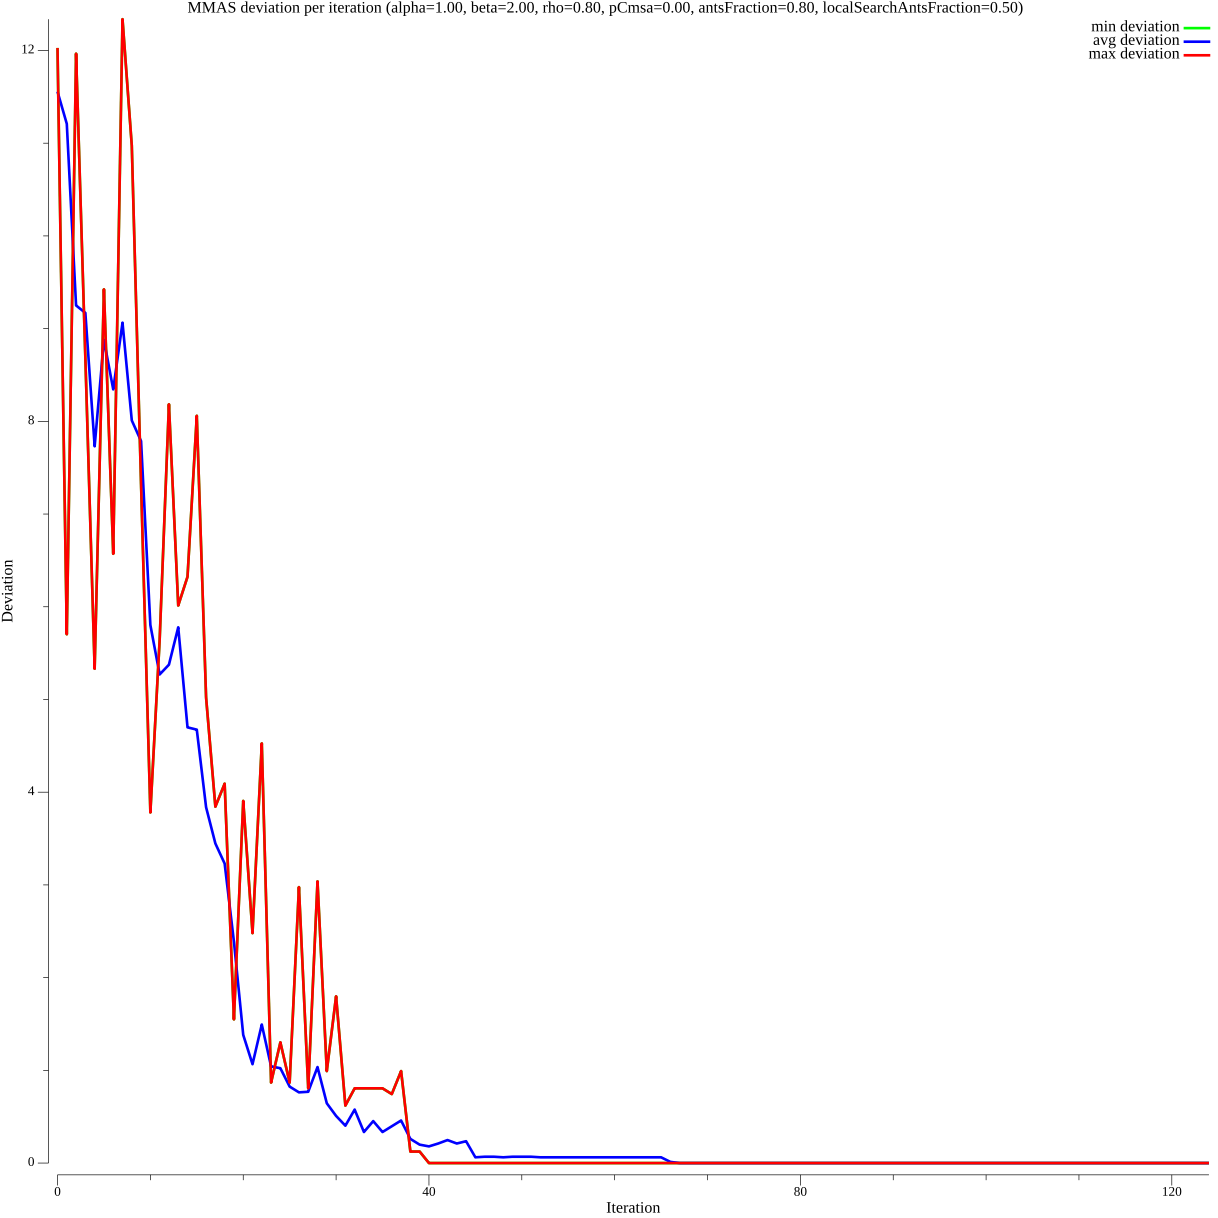
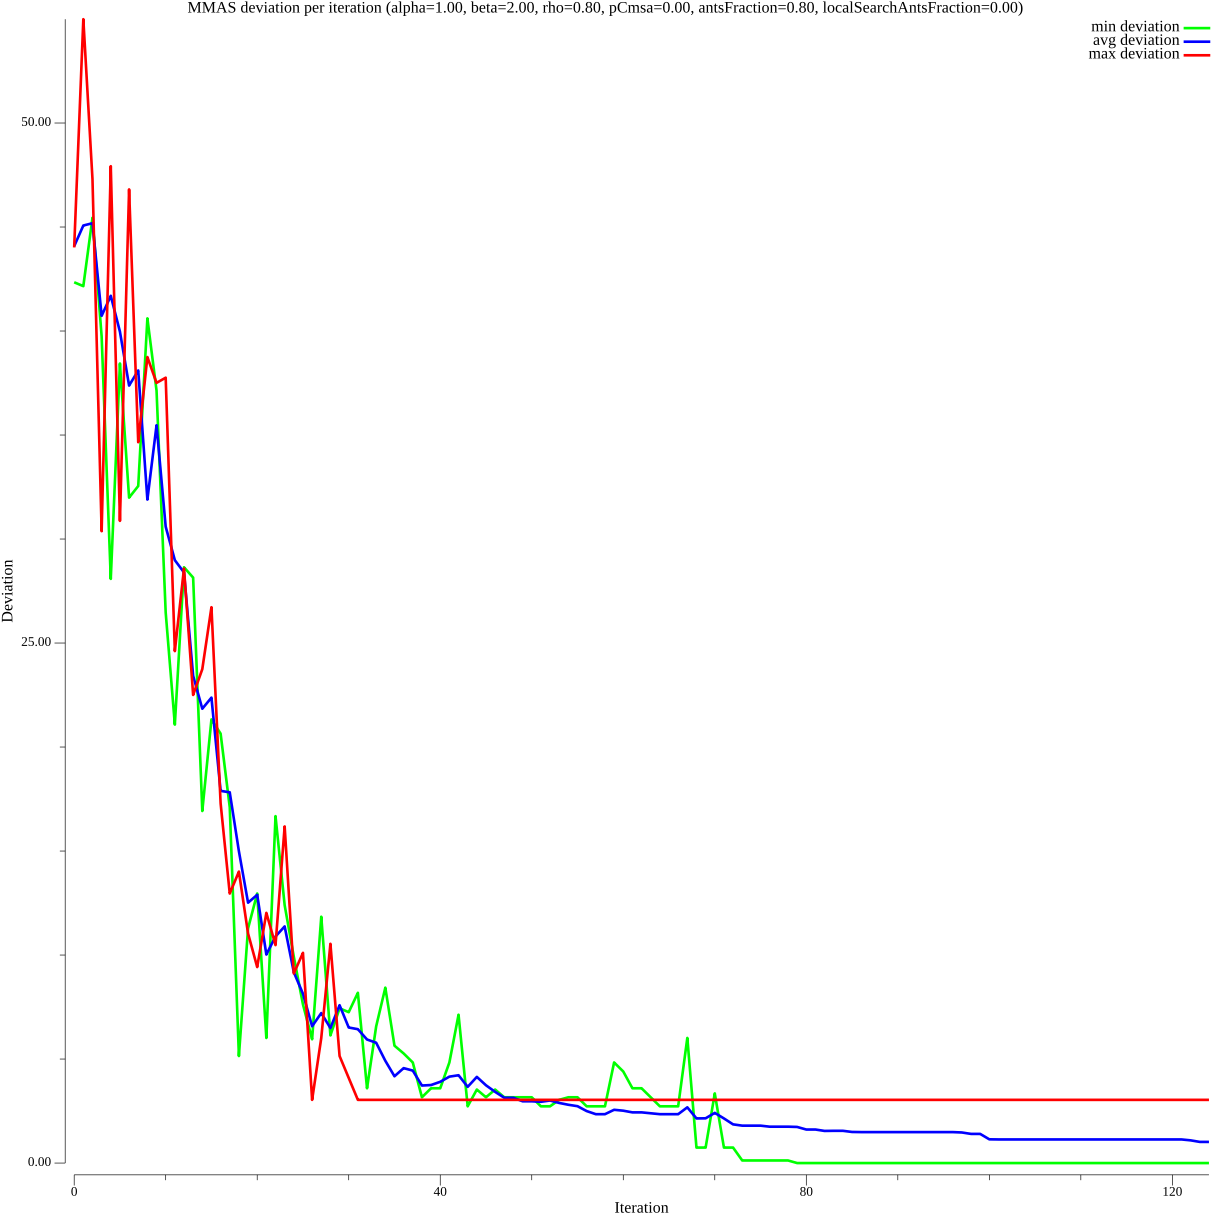
isolated tests

Changed region(s): [[0.0312, 0.0312, 0.9984, 0.9984], [0.0936, 0.624, 0.1248, 0.6552], [0.0312, 0.936, 0.0624, 0.9672]]

diff --git a/main.go b/main.go
@@ -658,9 +658,9 @@ func generateParameters() []ExperimentParameters {
 	for _, alpha := range utilities.GenerateRange(1.0, 1.0, 0.25) {
 		for _, beta := range utilities.GenerateRange(2.0, 2.0, 1.0) {
 			for _, rho := range utilities.GenerateRange(0.8, 0.8, 0.1) {
-				for _, pCmsa := range utilities.GenerateRange(0.0, 1.0, 0.25) {
+				for _, pCmsa := range utilities.GenerateRange(0.0, 0.0, 0.25) {
 					for _, antsPercentage := range utilities.GenerateRange(0.8, 0.8, 0.1) {
-						for _, localSearchAntsPercentage := range utilities.GenerateRange(0.5, 0.5, 0.5) {
+						for _, localSearchAntsPercentage := range utilities.GenerateRange(0.0, 0.0, 0.5) {
 							parameters = append(parameters,
 								ExperimentParameters{
 									alpha, beta, rho, pCmsa, antsPercentage, localSearchAntsPercentage, 0, 0, 0,

diff --git a/results/best_parameters_report.md b/results/best_parameters_report.md
@@ -1,31 +1,28 @@
 # Best Parameters Report
 
-Found **20** best unique parameter combinations.
+Found **17** best unique parameter combinations.
 
 ## Best Parameters
 
 | Alpha | Beta | Rho | pCmsa | AntsPercentage | LocalSearchAntsPercentage |
 |-------|------|-----|-------|----------------|---------------------------|
 | 1.00 | 5.00 | 0.80 | 0.05 | 0.25 | 97.00 |
-| 1.00 | 5.00 | 0.80 | 0.05 | 0.50 | 113.00 |
-| 1.00 | 2.00 | 0.80 | 0.50 | 0.80 | 0.50 |
-| 1.00 | 5.00 | 0.80 | 0.05 | 0.50 | 101.00 |
-| 1.00 | 2.00 | 0.80 | 0.75 | 0.80 | 0.50 |
-| 1.00 | 5.00 | 0.80 | 0.05 | 0.25 | 108.00 |
-| 1.00 | 2.00 | 0.80 | 0.00 | 0.80 | 0.50 |
+| 1.00 | 5.00 | 0.80 | 0.05 | 0.25 | 81.00 |
 | 1.00 | 5.00 | 0.80 | 0.05 | 0.00 | 81.00 |
-| 1.00 | 2.00 | 0.80 | 1.00 | 0.80 | 0.50 |
+| 1.00 | 2.00 | 0.80 | 0.00 | 0.80 | 0.50 |
+| 1.00 | 5.00 | 0.80 | 0.05 | 0.25 | 129.00 |
+| 1.00 | 5.00 | 0.80 | 0.05 | 0.25 | 108.00 |
+| 1.00 | 5.00 | 0.80 | 0.05 | 0.50 | 101.00 |
+| 1.00 | 2.00 | 0.80 | 0.00 | 0.80 | 0.00 |
+| 1.00 | 5.00 | 0.80 | 0.05 | 0.50 | 89.00 |
 | 1.00 | 5.00 | 0.80 | 0.05 | 0.00 | 159.00 |
+| 1.00 | 5.00 | 0.80 | 0.05 | 0.00 | 141.00 |
+| 1.00 | 5.00 | 0.80 | 0.05 | 0.50 | 113.00 |
+| 1.00 | 5.00 | 0.80 | 0.05 | 0.50 | 80.00 |
+| 1.00 | 5.00 | 0.80 | 0.05 | 0.75 | 80.00 |
 | 1.00 | 5.00 | 0.80 | 0.05 | 0.25 | 121.00 |
 | 1.00 | 5.00 | 0.80 | 0.05 | 0.50 | 105.00 |
 | 1.00 | 5.00 | 0.80 | 0.05 | 0.00 | 151.00 |
-| 1.00 | 5.00 | 0.80 | 0.05 | 0.00 | 141.00 |
-| 1.00 | 5.00 | 0.80 | 0.05 | 0.50 | 80.00 |
-| 1.00 | 5.00 | 0.80 | 0.05 | 0.25 | 129.00 |
-| 1.00 | 5.00 | 0.80 | 0.05 | 0.50 | 89.00 |
-| 1.00 | 5.00 | 0.80 | 0.05 | 0.25 | 81.00 |
-| 1.00 | 2.00 | 0.80 | 0.25 | 0.80 | 0.50 |
-| 1.00 | 5.00 | 0.80 | 0.05 | 0.75 | 80.00 |
 
 ## Parameter Values Occurrences
 
@@ -33,31 +30,27 @@ Found **20** best unique parameter combinations.
 
 | Value | Count |
 |-------|-------|
-| 1.00 | 20 |
+| 1.00 | 17 |
 
 ### Beta
 
 | Value | Count |
 |-------|-------|
-| 2.00 | 5 |
+| 2.00 | 2 |
 | 5.00 | 15 |
 
 ### Rho
 
 | Value | Count |
 |-------|-------|
-| 0.80 | 20 |
+| 0.80 | 17 |
 
 ### pCmsa
 
 | Value | Count |
 |-------|-------|
-| 0.00 | 1 |
+| 0.00 | 2 |
 | 0.05 | 15 |
-| 0.25 | 1 |
-| 0.50 | 1 |
-| 0.75 | 1 |
-| 1.00 | 1 |
 
 ### AntsPercentage
 
@@ -67,13 +60,14 @@ Found **20** best unique parameter combinations.
 | 0.25 | 5 |
 | 0.50 | 5 |
 | 0.75 | 1 |
-| 0.80 | 5 |
+| 0.80 | 2 |
 
 ### LocalSearchAntsPercentage
 
 | Value | Count |
 |-------|-------|
-| 0.50 | 5 |
+| 0.00 | 1 |
+| 0.50 | 1 |
 | 80.00 | 2 |
 | 81.00 | 2 |
 | 89.00 | 1 |
@@ -93,6 +87,6 @@ Found **20** best unique parameter combinations.
 - **Alpha**: 1.00 - 1.00
 - **Beta**: 2.00 - 5.00
 - **Rho**: 0.80 - 0.80
-- **pCmsa**: 0.00 - 1.00
+- **pCmsa**: 0.00 - 0.05
 - **AntsPercentage**: 0.00 - 0.80
-- **LocalSearchAntsPercentage**: 0.50 - 159.00
+- **LocalSearchAntsPercentage**: 0.00 - 159.00
